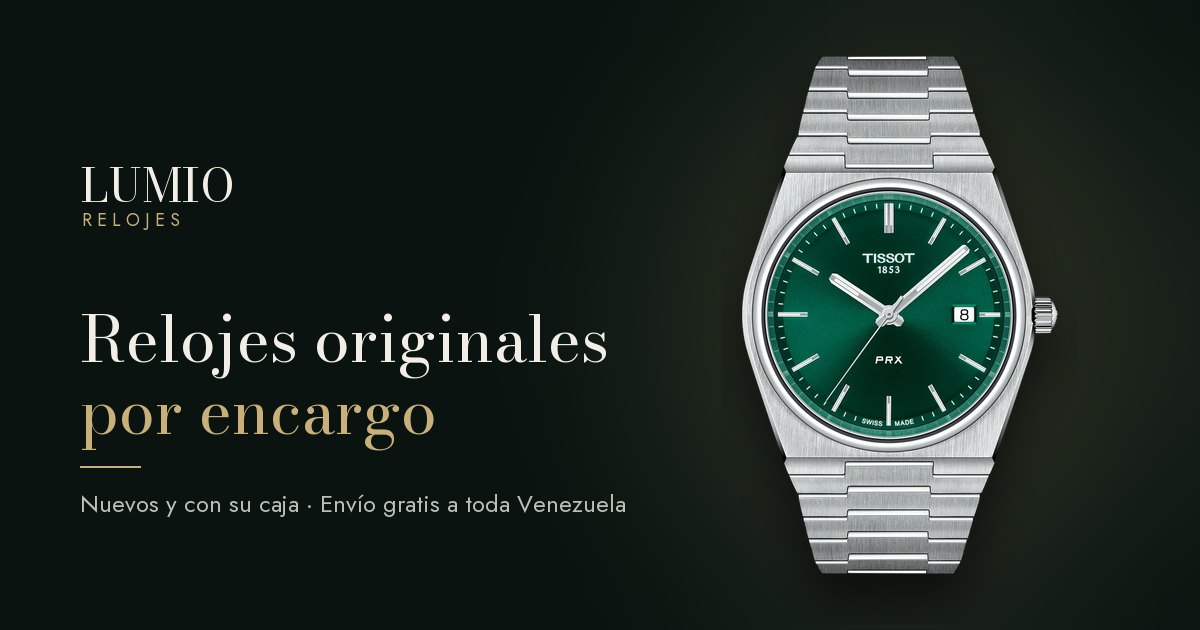
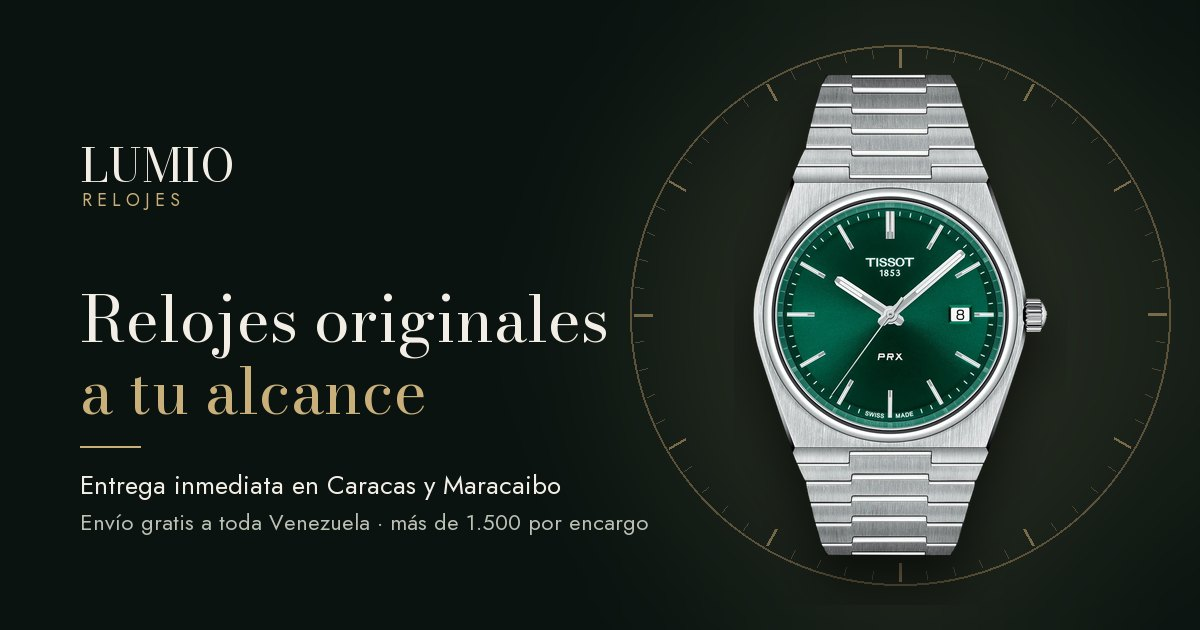
Nueva imagen para compartir

diff --git a/index.html b/index.html
@@ -13,12 +13,12 @@
 <meta property="og:site_name" content="Lumio Relojes">
 <meta property="og:locale" content="es_VE">
 <meta property="og:url" content="https://perazainvesting.github.io/lumio/">
-<meta property="og:title" content="Lumio Relojes · Relojes originales con entrega inmediata">
+<meta property="og:title" content="Lumio Relojes · Relojes originales a tu alcance">
 <meta property="og:description" content="Relojes nuevos y originales listos para entregar en Caracas y Maracaibo, con envío gratis a toda Venezuela. Y más de 1.500 modelos por encargo.">
-<meta property="og:image" content="https://perazainvesting.github.io/lumio/img/compartir.jpg">
+<meta property="og:image" content="https://perazainvesting.github.io/lumio/img/compartir.jpg?v=2">
 <meta property="og:image:width" content="1200">
 <meta property="og:image:height" content="630">
-<meta property="og:image:alt" content="Lumio Relojes: relojes originales por encargo">
+<meta property="og:image:alt" content="Lumio Relojes: relojes originales a tu alcance, con entrega inmediata">
 <meta name="twitter:card" content="summary_large_image">
 <link rel="apple-touch-icon" href="img/icono-180.png">
 <link rel="icon" type="image/png" sizes="192x192" href="img/icono-192.png">
